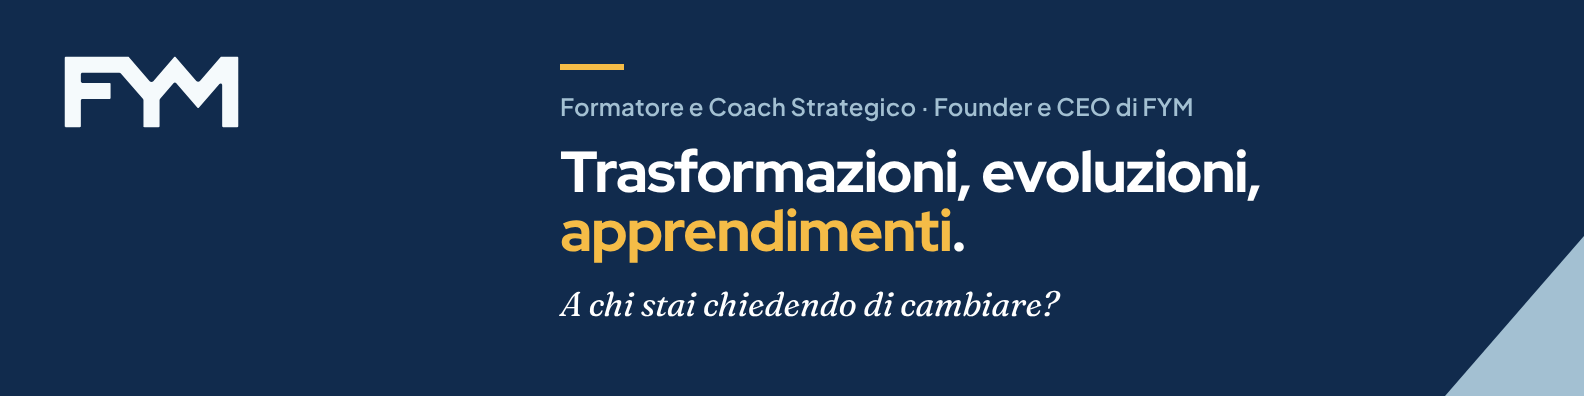
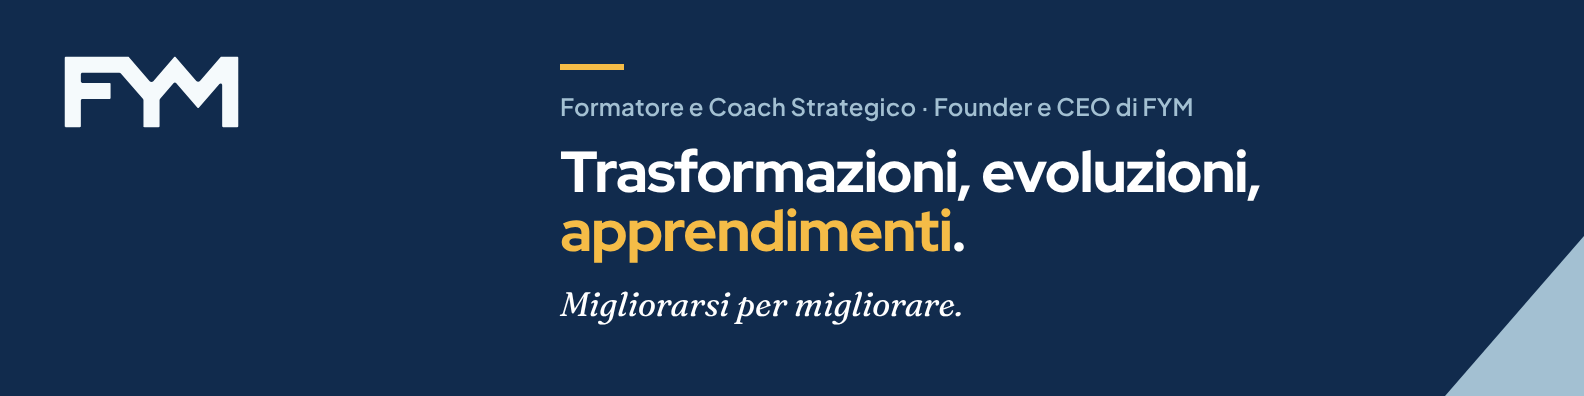
Copertina A: frase di chiusura «Migliorarsi per migliorare» e foglio varianti
Claude-Session: https://claude.ai/code/session_01ExfnFPVvHZTvYh4X8r1qja

Changed region(s): [[0.3403, 0.7273, 0.6806, 0.8182]]

diff --git a/linkedin/copertina-A-navy.html b/linkedin/copertina-A-navy.html
@@ -19,7 +19,7 @@ h1 em{font-style:normal;color:#f5bc47}
 <div class="tratt"></div>
 <p class="etichetta">Formatore e Coach Strategico · Founder e CEO di FYM</p>
 <h1>Trasformazioni, evoluzioni, <em>apprendimenti</em>.</h1>
-<p class="voce">A chi stai chiedendo di cambiare?</p>
+<p class="voce">Migliorarsi per migliorare.</p>
 </div>
 <div class="taglio"></div>
 </body></html>
